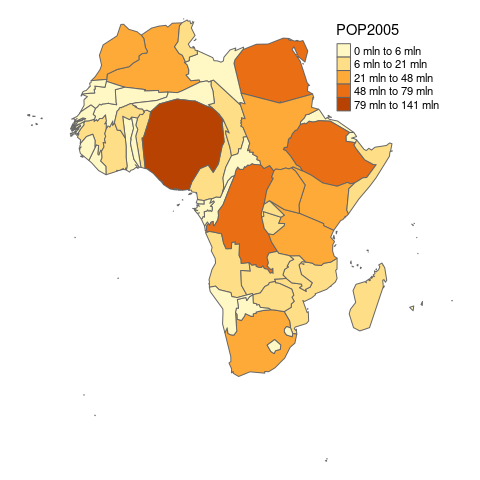
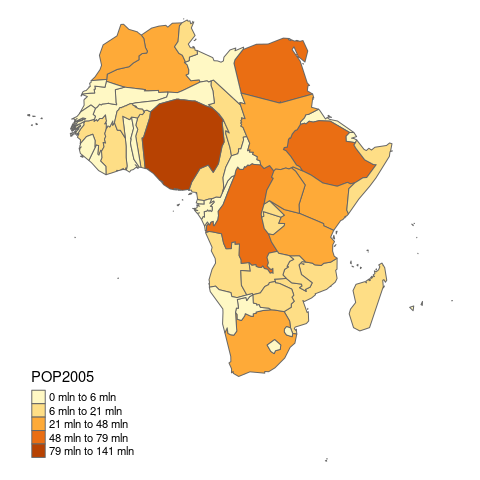
Just one legend needed in sf example

Changed region(s): [[0.6875, 0.0312, 0.9062, 0.25], [0.0625, 0.75, 0.2812, 0.9688]]

diff --git a/README.md b/README.md
@@ -44,8 +44,6 @@ devtools::install_github("sjewo/cartogram")
 library(cartogram)
 library(tmap)
 library(maptools)
-#> Loading required package: sp
-#> Checking rgeos availability: TRUE
 
 data(wrld_simpl)
 
@@ -54,6 +52,7 @@ afr <- spTransform(afr, CRS("+init=epsg:3395"))
 
 # construct cartogram
 afrc <- cartogram(afr, "POP2005", itermax = 5)
+#> Please use cartogram_cont() instead of cartogram().
 #> Mean size error for iteration 1: 5.79457153280442
 #> Mean size error for iteration 2: 4.99349670513046
 #> Mean size error for iteration 3: 4.39148731971216
@@ -105,7 +104,6 @@ Thanks to @Nowosad for speeding things up\!
 
 ``` r
 library(sf)
-#> Linking to GEOS 3.6.1, GDAL 2.2.4, proj.4 4.9.3
 # Create an sf object
 afr_sf = st_as_sf(afr)
 
@@ -114,6 +112,7 @@ par(mfrow = c(1, 2), mai = c(0, 0, 0, 0))
 
 # Continuous Area Cartogram
 afr_sf_carto <- cartogram(afr_sf, "POP2005", 3)
+#> Please use cartogram_cont() instead of cartogram().
 #> Mean size error for iteration 1: 5.79457153280442
 #> Mean size error for iteration 2: 4.94825547349441
 #> Mean size error for iteration 3: 4.32626995057148
@@ -125,16 +124,20 @@ afr_sf_nc <- nc_cartogram(afr_sf, "POP2005")
 afr_sf_noc <- noc_cartogram(afr_sf, "POP2005")
 
 # Plots
-m1 = tm_shape(afr_sf_carto) + tm_polygons("POP2005", style = "jenks") +
+m1 = tm_shape(afr_sf_carto) + tm_polygons("POP2005", style = "jenks", legend.show=FALSE) +
   tm_layout(frame = FALSE)
 
-m2 = tm_shape(afr_sf_nc) + tm_polygons("POP2005", style = "jenks") +
+m2 = tm_shape(afr_sf_nc) + tm_polygons("POP2005", style = "jenks", legend.show=FALSE) +
   tm_layout(frame = FALSE)
 
-m3 = tm_shape(afr_sf_noc) + tm_polygons("POP2005", style = "jenks") +
-  tm_layout(frame = FALSE)
+m3 = tm_shape(afr_sf_noc) + tm_polygons("POP2005", style = "jenks", legend.show=FALSE) +
+  tm_layout(frame = FALSE, legend.outside=T)
 
-tmap_arrange(m1, m2, m3, nrow = 1)
+ml <- tm_shape(afr_sf_noc) + tm_polygons("POP2005", style = "jenks") +
+  tm_layout(frame = FALSE, legend.only=T, legend.position=c("center","center"))
+
+
+tmap_arrange(m1, m2, m3, ml, nrow = 1)
 ```
 
 ![](man/figures/README-sfsupport-1.png)<!-- -->
